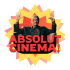
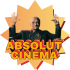
yhfvcifv

diff --git a/jogos/index.html b/jogos/index.html
@@ -11,6 +11,7 @@
     <link rel="preconnect" href="https://fonts.googleapis.com">
     <link rel="preconnect" href="https://fonts.gstatic.com" crossorigin>
     <link href="https://fonts.googleapis.com/css2?family=Montserrat:ital,wght@0,100..900;1,100..900&family=Poppins:ital,wght@0,100;0,200;0,300;0,400;0,500;0,600;0,700;0,800;0,900;1,100;1,200;1,300;1,400;1,500;1,600;1,700;1,800;1,900&display=swap" rel="stylesheet">
+    <link rel="shortcut icon" href="imagens/assets/favicon.ico" type="image/x-icon">
 </head>
 <body>
     <header class="header">
@@ -217,7 +218,14 @@
             <p class="sobre_texto" style="text-align: center;"><span class="texto_destaque">Projeto sem fins lucrativos</span></p>
         </div>
     </div>
-    <footer class="footer"></footer>
+    <footer class="footer">
+        <div class="footer_container">
+            <img src="imagens/assets/logo.png" alt="" class="footer_logo">
+            <a href="#">
+                <img src="imagens/assets/logotipo-do-linkedin.png" alt="" width="40px">
+            </a>
+        </div>
+    </footer>
     <script src="script.js" defer></script>
 </body>
 </html>

diff --git a/jogos/avaliacoes/cyberpunk2077.html b/jogos/avaliacoes/cyberpunk2077.html
@@ -11,6 +11,7 @@
     <link rel="preconnect" href="https://fonts.googleapis.com">
     <link rel="preconnect" href="https://fonts.gstatic.com" crossorigin>
     <link href="https://fonts.googleapis.com/css2?family=Montserrat:ital,wght@0,100..900;1,100..900&family=Poppins:ital,wght@0,100;0,200;0,300;0,400;0,500;0,600;0,700;0,800;0,900;1,100;1,200;1,300;1,400;1,500;1,600;1,700;1,800;1,900&display=swap" rel="stylesheet">
+    <link rel="shortcut icon" href="../imagens/assets/favicon.ico" type="image/x-icon">
 </head>
 <body>
     <header class="header">

diff --git a/jogos/avaliacoes/reddead2.html b/jogos/avaliacoes/reddead2.html
@@ -11,6 +11,7 @@
     <link rel="preconnect" href="https://fonts.googleapis.com">
     <link rel="preconnect" href="https://fonts.gstatic.com" crossorigin>
     <link href="https://fonts.googleapis.com/css2?family=Montserrat:ital,wght@0,100..900;1,100..900&family=Poppins:ital,wght@0,100;0,200;0,300;0,400;0,500;0,600;0,700;0,800;0,900;1,100;1,200;1,300;1,400;1,500;1,600;1,700;1,800;1,900&display=swap" rel="stylesheet">
+    <link rel="shortcut icon" href="../imagens/assets/favicon.ico" type="image/x-icon">
 </head>
 <body>
     <header class="header">

diff --git a/jogos/estilos/footer.css b/jogos/estilos/footer.css
@@ -1,0 +1,27 @@
+.footer{
+    padding-top: 1rem 0;
+    display: flex;
+    justify-content: center;
+    height: 200px;
+}
+.footer_container{
+    width: 100%;
+    display: flex;
+    background-color: rgb(90, 90, 90);
+    justify-content: space-evenly;
+    align-items: center;
+    gap: 1rem ;
+
+    @media (max-width:768px) {
+        flex-flow: column;
+    }
+}
+.footer_logo{
+    width: 100px;
+    height: 100px;
+
+    @media (max-width:768px) {
+        width: 50px;
+        height: 50px;
+    }
+}

diff --git a/jogos/estilos/jogos.css b/jogos/estilos/jogos.css
@@ -89,10 +89,15 @@
     position: relative;
 }
 .icone-melhor::before{
-    content: url(../imagens/assets/asset-icon-absolut70px.png);
+    content: '';
     position: absolute;
-    top: -10px;
-    left: -10px;
+    background-image: url(../imagens/assets/asset-icon-full.png);
+    background-position: center center;
+    background-size: cover;
+    width: 70px;
+    height: 70px;
+    top: 0;
+    left: 0;
 }
 
 

diff --git a/jogos/style.css b/jogos/style.css
@@ -4,6 +4,7 @@
 @import url(estilos/jogos.css);
 @import url(estilos/sobre.css);
 @import url(estilos/modelo-avaliacao.css);
+@import url(estilos/footer.css);
 
 
 ::-webkit-scrollbar{

diff --git a/jogos/estilos/header.css b/jogos/estilos/header.css
@@ -47,7 +47,6 @@
     cursor: pointer;
     border-radius: 50px;
     transition: 1s;
-    border: 1px solid;
     padding: 5px;
     
     @media (max-width: 768px) {
